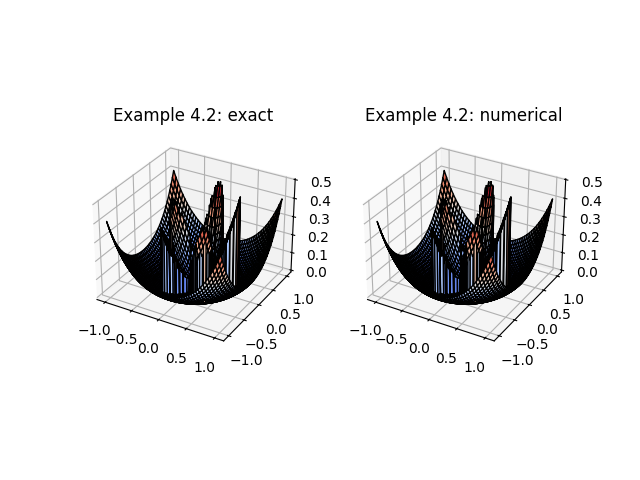
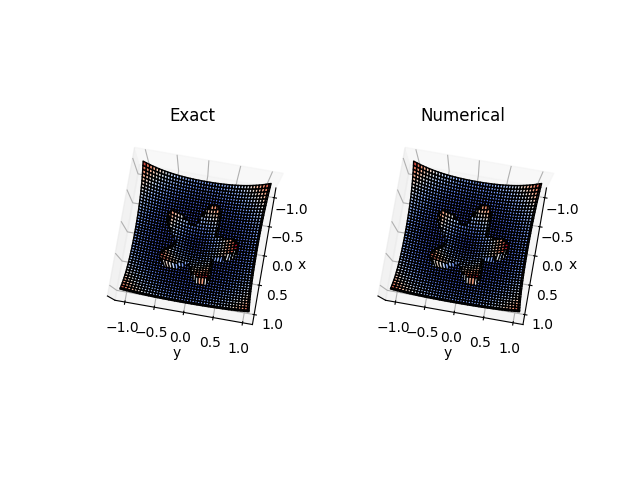
updated figures

diff --git a/examples/poisson/convergence.py b/examples/poisson/convergence.py
@@ -108,7 +108,7 @@ plt.loglog(1 / n_range, 1 / n_range**2, "--", label="$O(h^2)$")
 plt.xlabel("h")
 plt.ylabel("err")
 plt.legend()
-plt.title("Example 4.2: convergence of $u$")
+plt.title("Convergence of $u$")
 plt.savefig(f"{file_path}/convergence_poisson_solution.png")
 plt.figure()
 plt.loglog(1 / n_range, errors_du, "o-", label="actual")
@@ -116,13 +116,19 @@ plt.loglog(1 / n_range, 1 / n_range**2, "--", label="$O(h^2)$")
 plt.xlabel("h")
 plt.ylabel("err")
 plt.legend()
-plt.title("Example 4.2: convergence of $\\nabla u$")
+plt.title("Convergence of $\\nabla u$")
 plt.savefig(f"{file_path}/convergence_poisson_gradient.png")
 
 fig, ax = plt.subplots(1, 2, subplot_kw={"projection": "3d"})
 ax[0].plot_surface(X, Y, u_exact, edgecolor="black", cmap=cm.coolwarm)
-ax[0].set_title("Example 4.2: exact")
-ax[1].plot_surface(X, Y, u, edgecolor="black", cmap=cm.coolwarm)
-ax[1].set_title("Example 4.2: numerical")
-plt.savefig(f"{file_path}/poisson_solution.png")
+ax[0].set_xlabel("x")
+ax[0].set_ylabel("y")
+ax[0].set_title("Exact")
+ax[0].view_init(elev=85, azim=10, roll=0)
+ax[1].plot_surface(X, Y, phi, edgecolor="black", cmap=cm.coolwarm)
+ax[1].set_xlabel("x")
+ax[1].set_ylabel("y")
+ax[1].set_title("Numerical")
+ax[1].view_init(elev=85, azim=10, roll=0)
+plt.savefig(f"{file_path}/poisson_solution.png", dpi=200)
 plt.show()

diff --git a/examples/poisson/plottings.py b/examples/poisson/plottings.py
@@ -47,7 +47,16 @@ u_exact = np.where(mask_minus, u_minus, u_plus)
 
 fig, ax = plt.subplots(1, 2, subplot_kw={"projection": "3d"})
 ax[0].plot_surface(X, Y, u_exact, edgecolor="black", cmap=cm.coolwarm)
-ax[0].set_title("Example 4.2: exact")
+ax[0].set_xlabel("x")
+ax[0].set_ylabel("y")
+ax[0].set_title("Exact")
+ax[0].set_zticks([])
+ax[0].view_init(elev=85, azim=10, roll=0)
 ax[1].plot_surface(X, Y, phi, edgecolor="black", cmap=cm.coolwarm)
-ax[1].set_title("Example 4.2: numerical")
+ax[1].set_xlabel("x")
+ax[1].set_ylabel("y")
+ax[1].set_zticks([])
+ax[1].set_title("Numerical")
+ax[1].view_init(elev=85, azim=10, roll=0)
+plt.savefig(f"{file_path}/poisson_solution.png", dpi=200)
 plt.show()
